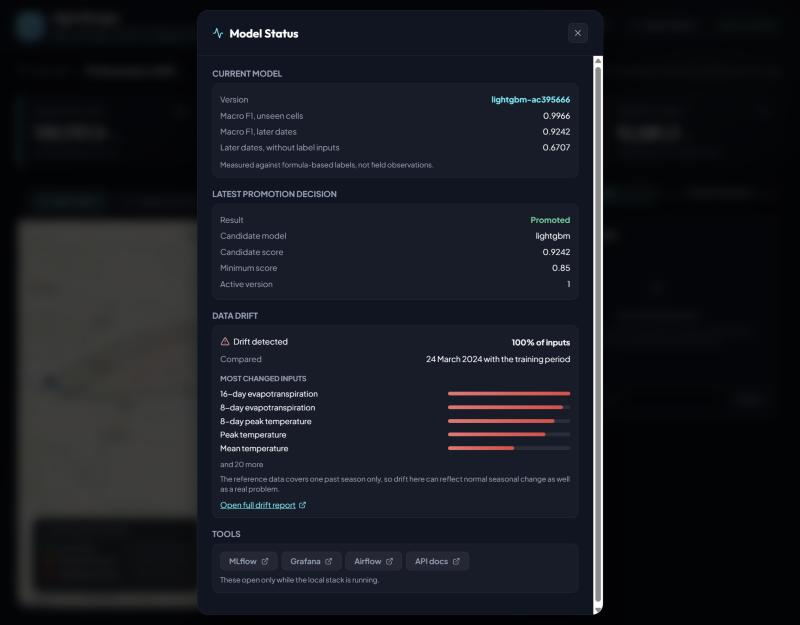
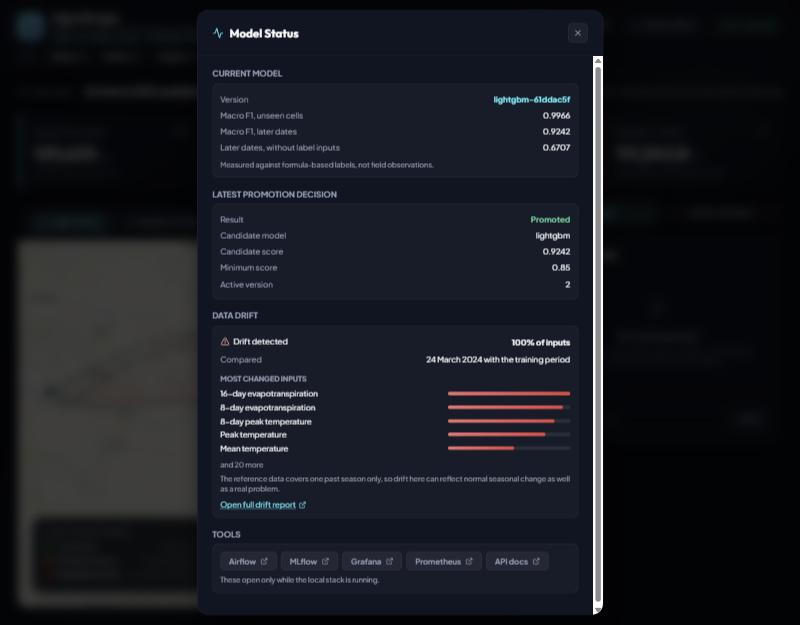
feat: add tool links to the dashboard and a forced pipeline run

diff --git a/frontend/src/i18n.js b/frontend/src/i18n.js
@@ -118,6 +118,14 @@ const en = {
   driftNote: 'The reference data covers one past season only, so drift here can reflect normal seasonal change as well as a real problem.',
   openReport: 'Open full drift report',
   tools: 'Tools',
+  toolHelp: {
+    airflow: 'Run and watch the pipeline',
+    mlflow: 'Compare experiments and registered models',
+    grafana: 'Live API and drift monitoring',
+    prometheus: 'Raw metrics and scrape status',
+    apiDocs: 'Try the API endpoints',
+    driftReport: 'Full data drift report',
+  },
   toolsNote: 'These open only while the local stack is running.',
   features: {
     ndvi_mean: 'NDVI', ndvi_std: 'NDVI spread', ndwi_mean: 'NDWI', ndwi_std: 'NDWI spread', evi_mean: 'EVI', evi_std: 'EVI spread',
@@ -241,6 +249,14 @@ const mr = {
   driftNote: 'संदर्भ माहिती एकाच जुन्या हंगामाची आहे, त्यामुळे हा ड्रिफ्ट खऱ्या समस्येसोबतच सामान्य हंगामी बदलही दाखवू शकतो.',
   openReport: 'संपूर्ण ड्रिफ्ट अहवाल उघडा',
   tools: 'साधने',
+  toolHelp: {
+    airflow: 'पाइपलाइन चालवा व पाहा',
+    mlflow: 'प्रयोग व नोंदणीकृत मॉडेलची तुलना करा',
+    grafana: 'API व ड्रिफ्टचे थेट निरीक्षण',
+    prometheus: 'मूळ मेट्रिक्स व संकलनाची स्थिती',
+    apiDocs: 'API एंडपॉइंट वापरून पाहा',
+    driftReport: 'माहितीतील बदलाचा संपूर्ण अहवाल',
+  },
   toolsNote: 'स्थानिक प्रणाली सुरू असतानाच ही उघडतात.',
   features: {
     ndvi_mean: 'NDVI', ndvi_std: 'NDVI मधील फरक', ndwi_mean: 'NDWI', ndwi_std: 'NDWI मधील फरक', evi_mean: 'EVI', evi_std: 'EVI मधील फरक',
@@ -364,6 +380,14 @@ const hi = {
   driftNote: 'संदर्भ डेटा केवल एक पुराने मौसम का है, इसलिए यह ड्रिफ्ट असली समस्या के साथ सामान्य मौसमी बदलाव भी दिखा सकता है।',
   openReport: 'पूरी ड्रिफ्ट रिपोर्ट खोलें',
   tools: 'टूल',
+  toolHelp: {
+    airflow: 'पाइपलाइन चलाएँ और देखें',
+    mlflow: 'प्रयोगों और पंजीकृत मॉडलों की तुलना करें',
+    grafana: 'API और ड्रिफ्ट की लाइव निगरानी',
+    prometheus: 'मूल मेट्रिक्स और संग्रह की स्थिति',
+    apiDocs: 'API एंडपॉइंट आज़माएँ',
+    driftReport: 'डेटा बदलाव की पूरी रिपोर्ट',
+  },
   toolsNote: 'ये केवल तब खुलते हैं जब स्थानीय सिस्टम चल रहा हो।',
   features: {
     ndvi_mean: 'NDVI', ndvi_std: 'NDVI में अंतर', ndwi_mean: 'NDWI', ndwi_std: 'NDWI में अंतर', evi_mean: 'EVI', evi_std: 'EVI में अंतर',

diff --git a/frontend/src/index.css b/frontend/src/index.css
@@ -820,6 +820,36 @@ body::after {
   .kpi-card:hover, .primary-action-btn:hover { transform: none; }
 }
 
+/* Links to the other tools */
+.header-bar { flex-wrap: wrap; row-gap: 0.55rem; }
+
+.tools-bar {
+  flex-basis: 100%;
+  display: flex;
+  flex-wrap: wrap;
+  align-items: center;
+  gap: 0.4rem;
+  font-size: 0.76rem;
+}
+
+.tools-label { color: var(--text-secondary); margin-right: 0.2rem; }
+
+.tool-link {
+  display: inline-flex;
+  align-items: center;
+  gap: 0.3rem;
+  padding: 0.22rem 0.6rem;
+  border: 1px solid var(--border-subtle);
+  border-radius: 6px;
+  background: rgba(255, 255, 255, 0.04);
+  color: var(--text-primary);
+  font-weight: 600;
+  text-decoration: none;
+  transition: var(--transition-fast);
+}
+
+.tool-link:hover { border-color: var(--brand-cyan); color: var(--brand-cyan); }
+
 /* Header details */
 .brand-area { color: var(--brand-cyan); display: block; }
 
@@ -994,7 +1024,7 @@ body::after {
   .map-layer-toggles .layer-btn { flex: 1; justify-content: center; }
   .map-quick-actions .layer-btn { flex: 1; justify-content: center; }
   #leaflet-map-root { min-height: 340px; }
-  .layer-btn, .lang-btn { min-height: 40px; }
+  .layer-btn, .lang-btn, .tool-link { min-height: 40px; }
   .icon-btn { width: 40px; height: 40px; }
   .map-legend-floating { position: static; border: none; border-top: 1px solid var(--border-subtle); border-radius: 0; box-shadow: none; }
   .sidebar-card { padding: 1rem; }

diff --git a/frontend/src/services/api.js b/frontend/src/services/api.js
@@ -8,10 +8,11 @@ import { API_UNREACHABLE } from '../i18n';
 const API_BASE = import.meta.env.VITE_API_URL || 'http://localhost:8000/api/v1';
 
 export const TOOL_LINKS = [
-  { label: 'MLflow', url: import.meta.env.VITE_MLFLOW_URL || 'http://localhost:5000' },
-  { label: 'Grafana', url: import.meta.env.VITE_GRAFANA_URL || 'http://localhost:3000' },
-  { label: 'Airflow', url: import.meta.env.VITE_AIRFLOW_URL || 'http://localhost:8080' },
-  { label: 'API docs', url: `${new URL(API_BASE).origin}/docs` },
+  { key: 'airflow', label: 'Airflow', url: import.meta.env.VITE_AIRFLOW_URL || 'http://localhost:8080' },
+  { key: 'mlflow', label: 'MLflow', url: import.meta.env.VITE_MLFLOW_URL || 'http://localhost:5000' },
+  { key: 'grafana', label: 'Grafana', url: import.meta.env.VITE_GRAFANA_URL || 'http://localhost:3000' },
+  { key: 'prometheus', label: 'Prometheus', url: import.meta.env.VITE_PROMETHEUS_URL || 'http://localhost:9090' },
+  { key: 'apiDocs', label: 'API docs', url: `${new URL(API_BASE).origin}/docs` },
 ];
 
 async function request(path, options) {
@@ -42,6 +43,7 @@ export function fetchPromotionDecision() {
 }
 
 export const driftReportUrl = `${API_BASE}/monitoring/drift/report`;
+export const DASHBOARD_LINKS = [...TOOL_LINKS, { key: 'driftReport', label: 'Evidently', url: driftReportUrl }];
 
 export function fetchAvailableDates() {
   return request('/available-dates');

diff --git a/frontend/src/components/Header.jsx b/frontend/src/components/Header.jsx
@@ -1,5 +1,6 @@
 import React from 'react';
-import { Activity } from 'lucide-react';
+import { Activity, ExternalLink } from 'lucide-react';
+import { DASHBOARD_LINKS } from '../services/api';
 
 const LANGUAGES = [
   { code: 'en', label: 'EN' },
@@ -56,6 +57,17 @@ export default function Header({ t, currentLang, onLangChange, onOpenMlops, syst
           <span>{t[STATUS_TEXT[systemStatus]]}</span>
         </div>
       </div>
+
+      <nav className="tools-bar" id="tools-bar" aria-label={t.tools}>
+        <span className="tools-label">{t.tools}:</span>
+        {DASHBOARD_LINKS.map(({ key, label, url }) => (
+          <a key={key} id={`tool-link-${key}`} className="tool-link" href={url} target="_blank" rel="noreferrer" title={t.toolHelp[key]}>
+            <span>{label}</span>
+            <ExternalLink size={11} aria-hidden="true" />
+            <span className="visually-hidden">{t.toolHelp[key]}</span>
+          </a>
+        ))}
+      </nav>
     </header>
   );
 }

diff --git a/airflow/dags/agroscope_pipeline.py b/airflow/dags/agroscope_pipeline.py
@@ -3,6 +3,10 @@
 Each task runs one DVC stage, so DVC skips any step whose inputs haven't changed and raw data
 isn't reprocessed needlessly. `dvc.yaml` remains the single definition of what each step does.
 A failed validation stops every task after it.
+
+To show a real run when nothing has changed, trigger with `force_rerun` on. That reruns every
+stage except the weather download, which needs `refetch_weather` as well, because new weather
+values would change every result.
 """
 
 from __future__ import annotations
@@ -10,10 +14,12 @@ from __future__ import annotations
 from datetime import datetime, timedelta
 
 from airflow import DAG
+from airflow.models.param import Param
 from airflow.operators.bash import BashOperator
 
 PROJECT_DIR = "/opt/agroscope"
 PIPELINE_BIN = "/opt/pipeline-venv/bin"
+WEATHER_STAGE = "acquire_weather"
 
 # (task id, DVC stage, what the task does), in the order they run
 STEPS = [
@@ -38,12 +44,19 @@ with DAG(
     max_active_runs=1,
     default_args={"retries": 0, "execution_timeout": timedelta(hours=2)},
     tags=["agroscope", "mlops"],
+    params={
+        "force_rerun": Param(False, type="boolean", title="Force rerun", description="Rerun every stage, even if nothing changed. Takes about 9 minutes."),
+        "refetch_weather": Param(False, type="boolean", title="Refetch weather", description="Also download weather again. Needs internet, and new values would change every result."),
+    },
     doc_md=__doc__,
 ) as dag:
     tasks = [
         BashOperator(
             task_id=task_id,
-            bash_command=f"dvc repro --single-item {stage}",
+            bash_command=(
+                "dvc repro {{ '--force' if params." + ("refetch_weather" if stage == WEATHER_STAGE else "force_rerun") + " else '' }} "
+                f"--single-item {stage}"
+            ),
             cwd=PROJECT_DIR,
             # DVC runs each stage's `python` from this PATH.
             env={"PATH": f"{PIPELINE_BIN}:/usr/local/bin:/usr/bin:/bin"},

diff --git a/README.md b/README.md
@@ -89,13 +89,79 @@ docker compose up --build
 | Grafana | http://localhost:3000 | None to view |
 | Prometheus | http://localhost:9090 | None |
 
-**3. Run the pipeline.** In Airflow, start the `agroscope_pipeline` DAG. MLflow's data lives in a Docker volume, so a new machine starts with an empty registry until this runs. Then load the new results:
+The dashboard's tools bar links to all of these.
+
+**3. Run the pipeline.** Follow [the steps below](#run-the-whole-pipeline-step-by-step). MLflow's data lives in a Docker volume, so a new machine starts with an empty registry until this runs.
+
+`docker compose down -v` deletes MLflow's runs and registry, so leave off `-v` unless you mean to.
+
+## Run the whole pipeline step by step
+
+Use this to show the pipeline running from start to finish. It takes about 9 minutes. Every tool is linked from the bar at the top of the dashboard.
+
+**Why there's a Force rerun option:** each task is a DVC stage, and DVC skips any stage whose inputs haven't changed. A normal run on unchanged data finishes in about 90 seconds with every stage skipped. Force rerun makes every stage run again, except the weather download.
+
+**1. Start the system.** From the project root:
+
+```bash
+docker compose up -d
+```
+```bash
+docker compose ps
+```
+
+Wait until `api` and `mlflow` show `healthy`, then open http://localhost:8000/dashboard/.
+
+**2. Open Airflow.** Click **Airflow** in the dashboard's tools bar, and sign in with `admin` / `admin`. Click `agroscope_pipeline`, then **Grid** if it isn't already showing.
+
+**3. Start the run.** Click the play button (▶) at the top right, which opens the trigger form:
+
+- Turn on **Force rerun**.
+- Leave **Refetch weather** off. It needs internet, and new weather values would change every result.
+- Click **Trigger**, at the bottom of the form.
+
+![Airflow's trigger form](docs/screenshots/airflow_force_rerun_form.jpg)
+
+**4. Watch the tasks.** Turn on **Auto-refresh** in the Grid view. Each square turns green as its task finishes. Click a task, then **Logs**, to see its output.
+
+| # | Task | What it does | Time in the last full run |
+| :--- | :--- | :--- | :--- |
+| 1 | `ingestion` | Checks the weather data is current | 2 sec |
+| 2 | `raw_data_validation` | Checks raw weather and the scene list | 9 sec |
+| 3 | `preprocessing` | Builds the grid and per-cell satellite values | 1 min 51 sec |
+| 4 | `feature_engineering` | Joins the data and calculates labels | 1 min 24 sec |
+| 5 | `feature_validation` | Checks the training table | 8 sec |
+| 6 | `training` | Trains 3 models, each with 3 tests | 2 min 21 sec |
+| 7 | `evaluation` | Records whether the score passes 0.85 | 2 sec |
+| 8 | `model_registration` | Applies the gate and exports the champion | 10 sec |
+| 9 | `batch_prediction` | Builds maps and statistics for all 27 dates | 42 sec |
+| 10 | `drift_monitoring` | Compares the published date with the training period | 22 sec |
+
+Airflow waits a few seconds between tasks, so the whole run took about 9 minutes 20 seconds.
+
+**5. Check the new runs.** Click **MLflow** in the tools bar and open `agroscope-water-stress`. Three new runs appear during `training`: `random_forest`, `xgboost` and `lightgbm`.
+
+**6. Check the release decision.** In MLflow, open **Models**, then `agroscope-stress-classifier`. A new version appears after `model_registration`, with the gate's decision in its tags. On unchanged data the scores tie, and a tie is promoted, so the `champion` alias moves to the new version.
+
+**7. Load the new results.** The API reads its model and results when it starts:
 
 ```bash
 docker compose restart api
 ```
 
-`docker compose down -v` deletes MLflow's runs and registry, so leave off `-v` unless you mean to.
+Wait about 30 seconds, then refresh the dashboard. **Model Status** shows the new version number and promotion decision.
+
+**8. Confirm it's complete.** With the environment active:
+
+```bash
+.venv/Scripts/dvc status
+```
+
+It should say `Data and pipelines are up to date`.
+
+**If a task fails,** its square turns red and the tasks after it don't run. Click it, then **Logs**, to see why. A failed validation stops the run on purpose, before training.
+
+**After a live run,** `dvc.lock` changes because the model files have new hashes. Scores and results stay the same. To keep the run, use `dvc push`, then commit `dvc.lock`.
 
 ## Results
 
@@ -111,9 +177,9 @@ Macro F1 from the latest run. **These are measured against labels calculated by 
 
 | Measure | Result |
 | :--- | :--- |
-| p95 latency | 150.5 ms |
-| Throughput | 170.79 requests per second |
-| Error rate | 0% of 10,257 requests |
+| p95 latency | 168.9 ms |
+| Throughput | 146.99 requests per second |
+| Error rate | 0% of 8,833 requests |
 | Inputs drifted on the published date | 100% |
 | Simulated drift, unchanged control | 0% |
 | Simulated drift, after shifting 9 inputs | 36%, with all 9 flagged and no others |

diff --git a/reports/performance_report.md b/reports/performance_report.md
@@ -8,14 +8,14 @@ Built by `scripts/build_performance_report.py` from saved results. No number her
 | :--- | :--- | :--- |
 | Model: macro F1 on later dates | 0.9242 | `reports/evaluation_result.json` |
 | Business: hectares flagged Priority 1 this cycle | 117,243.8 ha (97.2%) | `data/processed/cycle_statistics.json` |
-| p95 latency, all requests | 150.5 ms | `reports/load_test_results.json` |
-| Throughput | 170.79 requests per second | `reports/load_test_results.json` |
+| p95 latency, all requests | 168.9 ms | `reports/load_test_results.json` |
+| Throughput | 146.99 requests per second | `reports/load_test_results.json` |
 | Error rate | 0.00% | `reports/load_test_results.json` |
 | Drift: share of inputs drifted on the published date | 100% | `data/processed/drift_summary.json` |
 
 ## Model performance
 
-The promotion gate uses `temporal_macro_f1`, with a minimum of 0.85. Latest decision: promoted, lightgbm version 1. No champion exists yet.
+The promotion gate uses `temporal_macro_f1`, with a minimum of 0.85. Latest decision: promoted, lightgbm version 2. Candidate 0.9242 meets the required 0.9242.
 
 | Model | Unseen cells | Later dates | Later dates without label inputs |
 | :--- | :--- | :--- | :--- |
@@ -72,17 +72,17 @@ The largest macro F1 gap between reaches is 0.0124.
 
 ## Serving performance
 
-10 simulated users for 60.1 seconds against `http://localhost:8000`, model `lightgbm-ac395666`, measured 2026-11-04T12:01:24.947417+00:00. Run on one local computer, with the client and API sharing its resources.
+10 simulated users for 60.1 seconds against `http://localhost:8000`, model `lightgbm-61ddac5f`, measured 2026-11-04T17:13:55.918956+00:00. Run on one local computer, with the client and API sharing its resources.
 
 | Request | Requests | Errors | Throughput (per second) | p50 ms | p95 ms | p99 ms |
 | :--- | :--- | :--- | :--- | :--- | :--- | :--- |
-| All | 10257 | 0 | 170.79 | 39.7 | 150.5 | 187.4 |
-| statistics | 3129 | 0 | 52.1 | 26.2 | 59.4 | 80.9 |
-| cell_details | 3033 | 0 | 50.5 | 27.0 | 59.6 | 79.8 |
-| predict | 3023 | 0 | 50.34 | 118.1 | 176.7 | 211.8 |
-| map_sample | 1072 | 0 | 17.85 | 47.1 | 82.8 | 106.5 |
+| All | 8833 | 0 | 146.99 | 47.9 | 168.9 | 200.9 |
+| statistics | 2671 | 0 | 44.45 | 32.5 | 68.7 | 87.3 |
+| cell_details | 2616 | 0 | 43.53 | 31.9 | 68.9 | 87.6 |
+| predict | 2636 | 0 | 43.87 | 133.5 | 194.2 | 224.1 |
+| map_sample | 910 | 0 | 15.14 | 57.2 | 95.9 | 112.2 |
 
-`/predict` includes a SHAP explanation for each request. Its p95 was 176.7 ms.
+`/predict` includes a SHAP explanation for each request. Its p95 was 194.2 ms.
 
 ## Drift
 

diff --git a/docs/MODEL_CARD.md b/docs/MODEL_CARD.md
@@ -1,6 +1,6 @@
 # AgroScope Model Card
 
-**Model:** `agroscope-stress-classifier`, version 1, a LightGBM classifier. It was released through the promotion gate on 2026-11-04.
+**Model:** `agroscope-stress-classifier`, version 2, a LightGBM classifier. It was released through the promotion gate on 2026-11-04.
 
 ## Purpose
 
